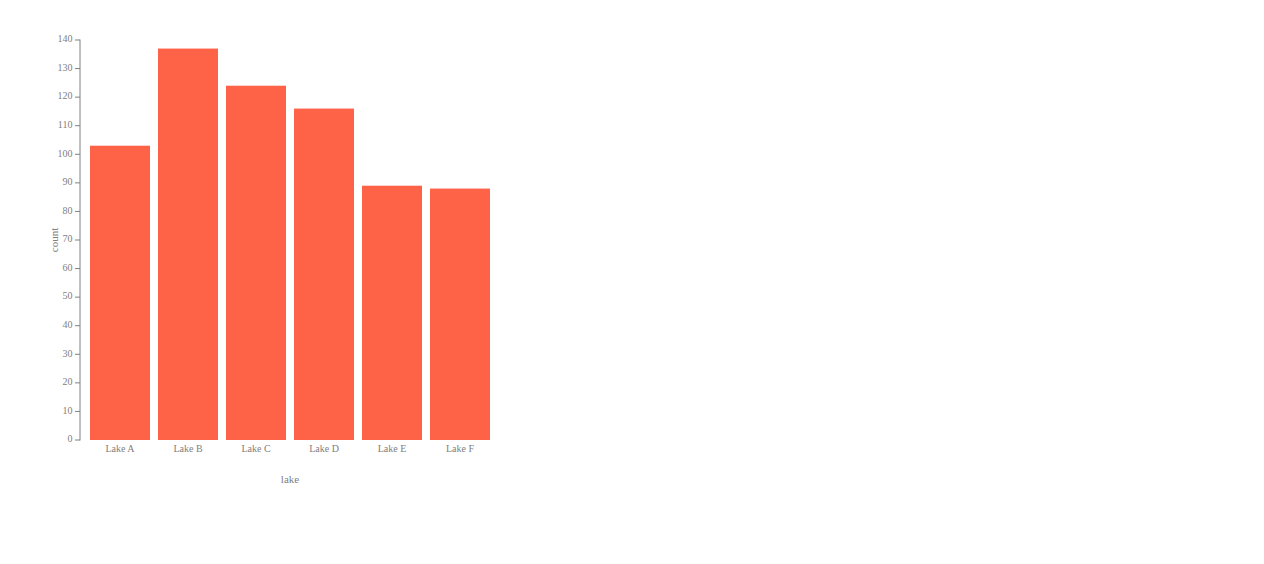
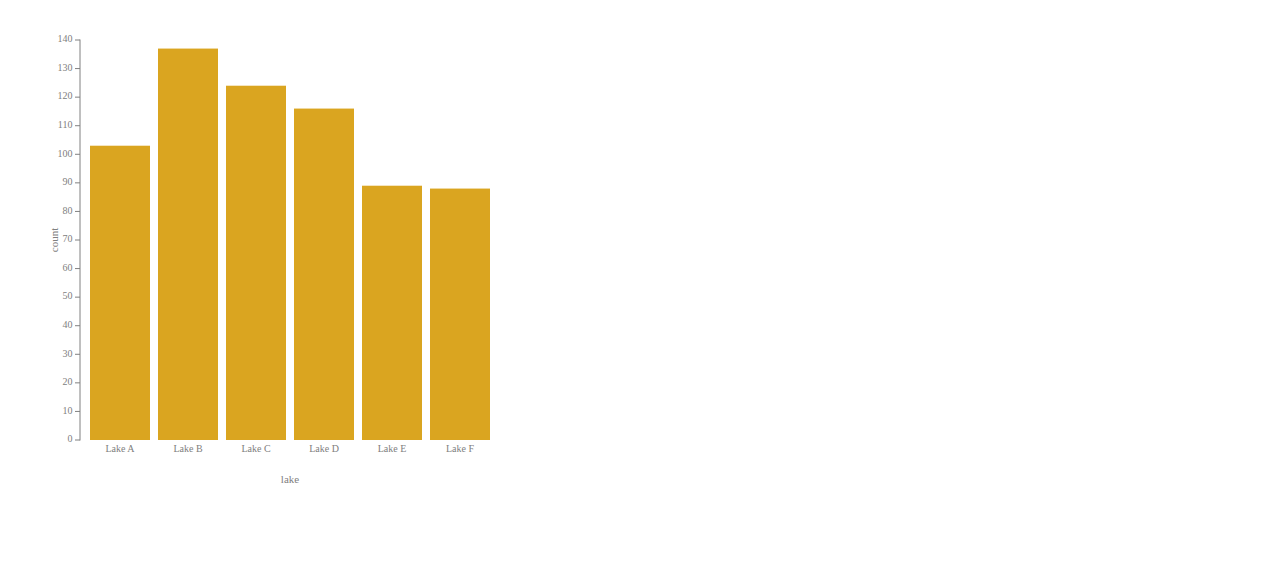
Accept 1 visual diff(s)

Changed region(s): [[0.0617, 0.0603, 0.4011, 0.7837]]

diff --git a/dom/forward-syntax-v3/bar/basic--default.html b/dom/forward-syntax-v3/bar/basic--default.html
@@ -1,4 +1,4 @@
-<svg height="560" width="590" xmlns="http://www.w3.org/2000/svg"><g transform="scale(1, -1) translate(70, -440)"><g transform="translate(0, 0) scale(1, 1)"><g transform="translate(0, 0)"><rect fill="tomato" height="294.2857" opacity="1" rx="0" ry="0" stroke="tomato" stroke-width="0" transform="scale(1, -1)" width="60" x="0" y="-294.2857"></rect><rect fill="tomato" height="391.4286" opacity="1" rx="0" ry="0" stroke="tomato" stroke-width="0" transform="scale(1, -1)" width="60" x="68" y="-391.4286"></rect><rect fill="tomato" height="354.2857" opacity="1" rx="0" ry="0" stroke="tomato" stroke-width="0" transform="scale(1, -1)" width="60" x="136" y="-354.2857"></rect><rect fill="tomato" height="331.4286" opacity="1" rx="0" ry="0" stroke="tomato" stroke-width="0" transform="scale(1, -1)" width="60" x="204" y="-331.4286"></rect><rect fill="tomato" height="254.2857" opacity="1" rx="0" ry="0" stroke="tomato" stroke-width="0" transform="scale(1, -1)" width="60" x="272" y="-254.2857"></rect><rect fill="tomato" height="251.4286" opacity="1" rx="0" ry="0" stroke="tomato" stroke-width="0" transform="scale(1, -1)" width="60" x="340" y="-251.4286"></rect></g></g><g><g><line stroke="gray" stroke-width="1" x1="-10" x2="-10" y1="-0.5" y2="400.5"></line><text dominant-baseline="middle" fill="gray" font-size="10" text-anchor="end" transform="scale(1, -1)" x="-17.5" y="0">0
+<svg height="560" width="590" xmlns="http://www.w3.org/2000/svg"><g transform="scale(1, -1) translate(70, -440)"><g transform="translate(0, 0) scale(1, 1)"><g transform="translate(0, 0)"><rect fill="goldenrod" height="294.2857" opacity="1" rx="0" ry="0" stroke="goldenrod" stroke-width="0" transform="scale(1, -1)" width="60" x="0" y="-294.2857"></rect><rect fill="goldenrod" height="391.4286" opacity="1" rx="0" ry="0" stroke="goldenrod" stroke-width="0" transform="scale(1, -1)" width="60" x="68" y="-391.4286"></rect><rect fill="goldenrod" height="354.2857" opacity="1" rx="0" ry="0" stroke="goldenrod" stroke-width="0" transform="scale(1, -1)" width="60" x="136" y="-354.2857"></rect><rect fill="goldenrod" height="331.4286" opacity="1" rx="0" ry="0" stroke="goldenrod" stroke-width="0" transform="scale(1, -1)" width="60" x="204" y="-331.4286"></rect><rect fill="goldenrod" height="254.2857" opacity="1" rx="0" ry="0" stroke="goldenrod" stroke-width="0" transform="scale(1, -1)" width="60" x="272" y="-254.2857"></rect><rect fill="goldenrod" height="251.4286" opacity="1" rx="0" ry="0" stroke="goldenrod" stroke-width="0" transform="scale(1, -1)" width="60" x="340" y="-251.4286"></rect></g></g><g><g><line stroke="gray" stroke-width="1" x1="-10" x2="-10" y1="-0.5" y2="400.5"></line><text dominant-baseline="middle" fill="gray" font-size="10" text-anchor="end" transform="scale(1, -1)" x="-17.5" y="0">0
 </text><line stroke="gray" x1="-15" x2="-10" y1="0" y2="0"></line><text dominant-baseline="middle" fill="gray" font-size="10" text-anchor="end" transform="scale(1, -1)" x="-17.5" y="-28.5714">10
 </text><line stroke="gray" x1="-15" x2="-10" y1="28.5714" y2="28.5714"></line><text dominant-baseline="middle" fill="gray" font-size="10" text-anchor="end" transform="scale(1, -1)" x="-17.5" y="-57.1429">20
 </text><line stroke="gray" x1="-15" x2="-10" y1="57.1429" y2="57.1429"></line><text dominant-baseline="middle" fill="gray" font-size="10" text-anchor="end" transform="scale(1, -1)" x="-17.5" y="-85.7143">30
